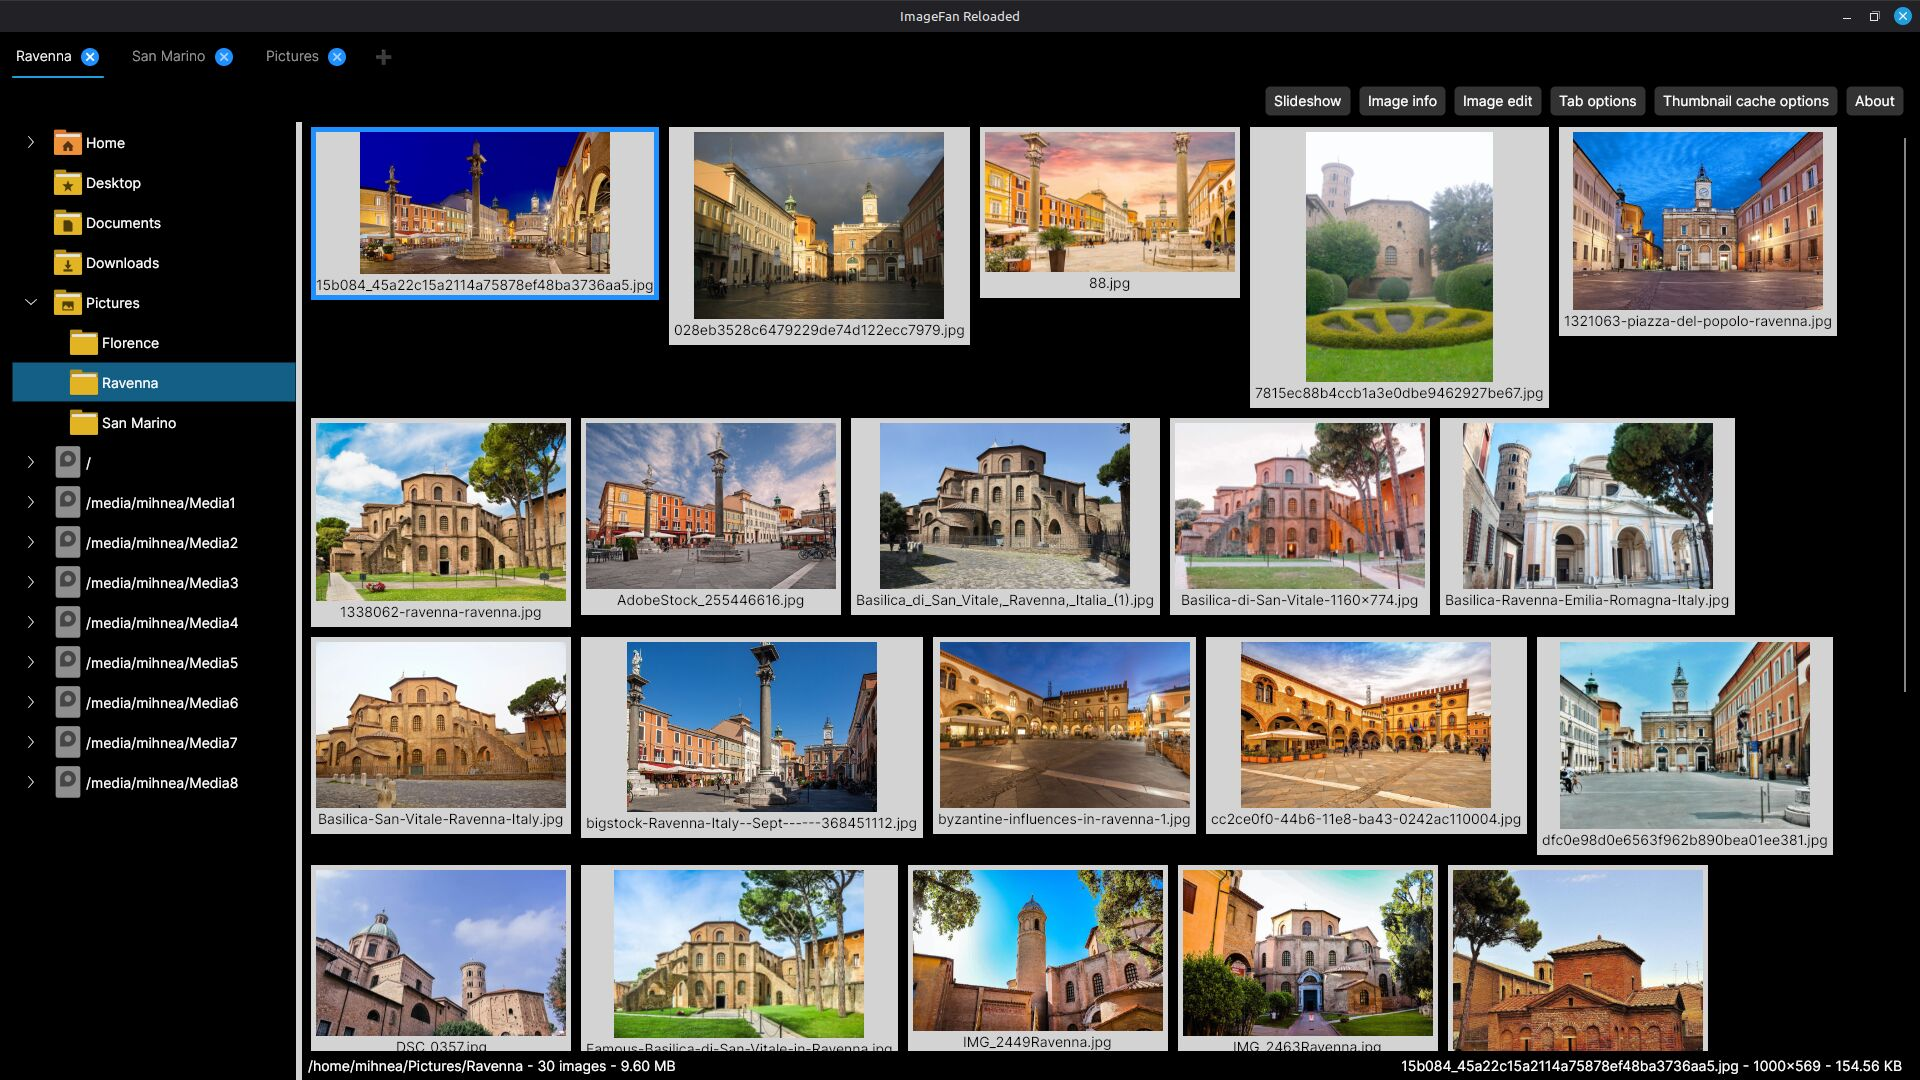
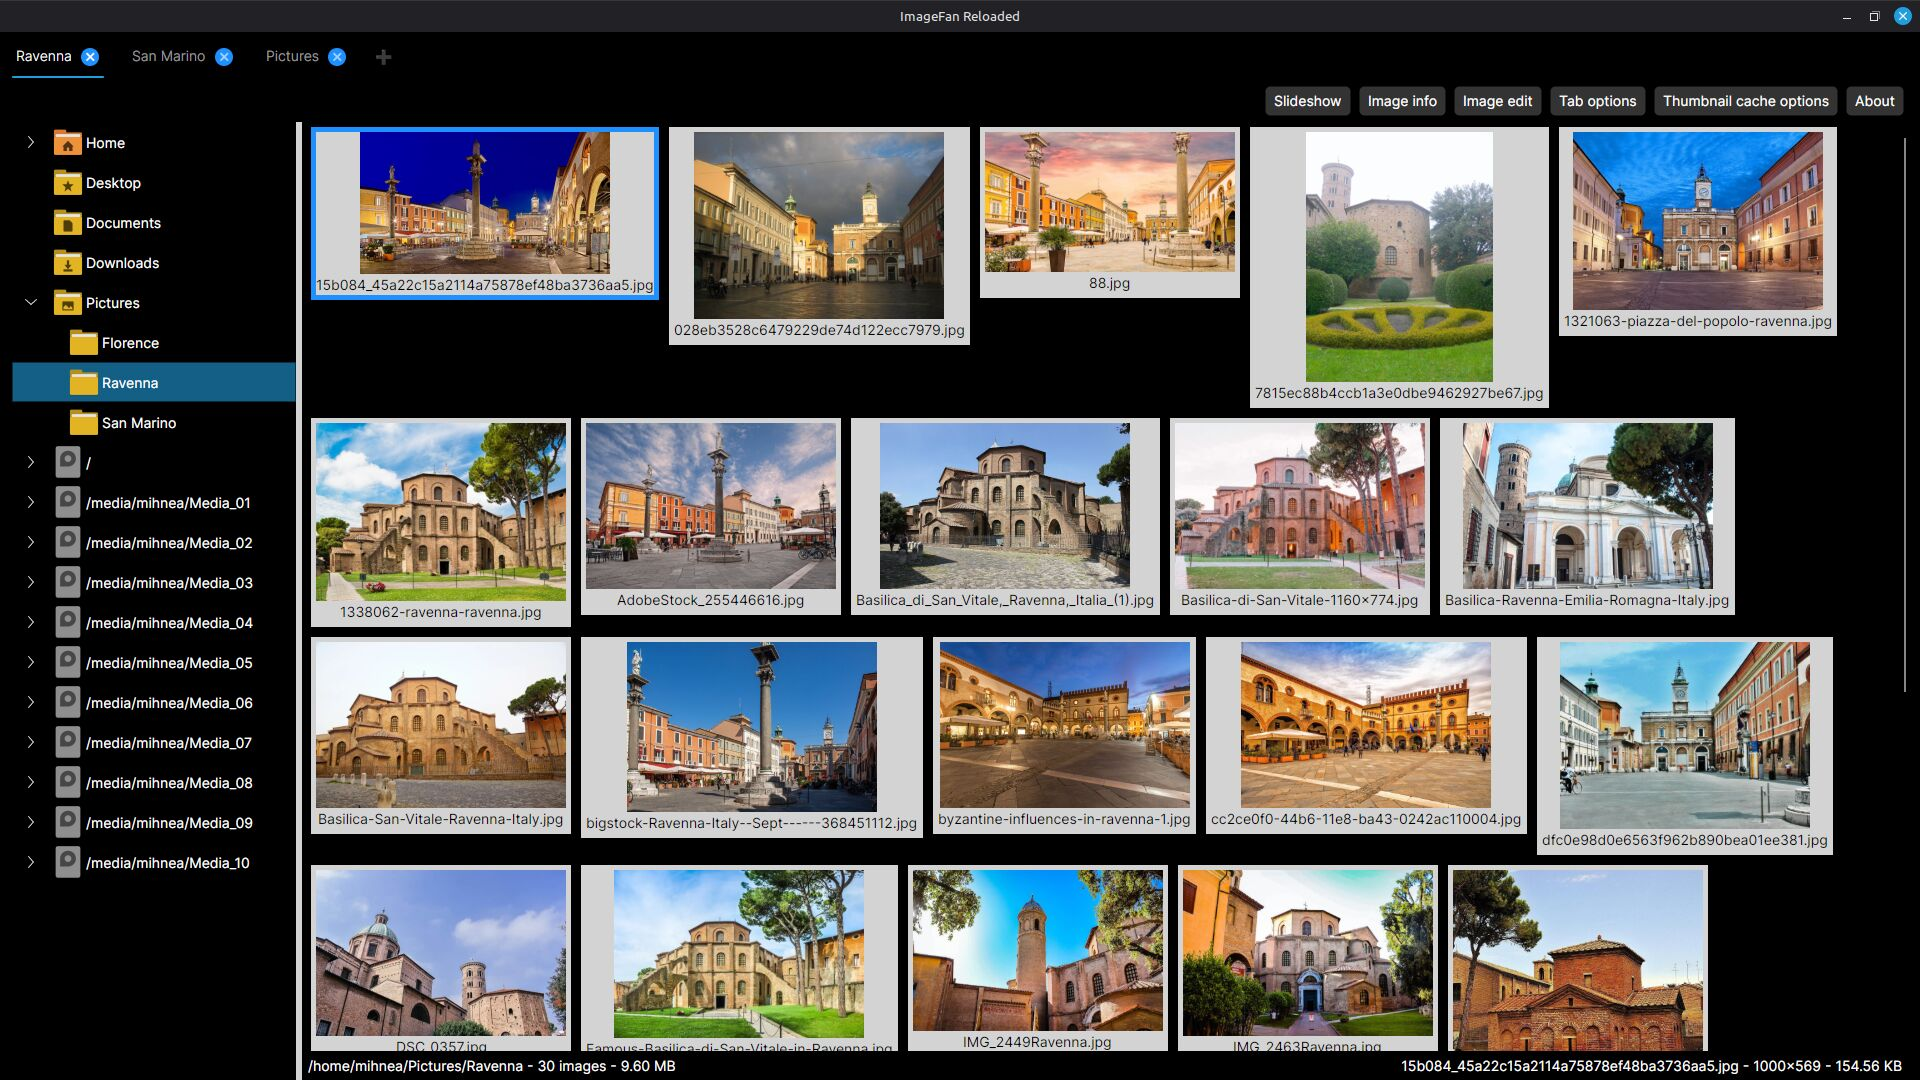
Fixed control focus issue when editing an image

diff --git a/ImageFanReloaded/Controls/TabOptionsWindow.axaml.cs b/ImageFanReloaded/Controls/TabOptionsWindow.axaml.cs
@@ -166,22 +166,6 @@ public partial class TabOptionsWindow : Window, ITabOptionsView
 		_tabOptionChanges.HasChangedThumbnailSize = true;
 	}
 
-	private void OnEnabledImageFileExtensionsListBoxKeyPressing(
-		object? sender, Avalonia.Input.KeyEventArgs e)
-	{
-		var keyModifiers = e.KeyModifiers.ToCoreKeyModifiers();
-		var keyPressing = e.Key.ToCoreKey();
-
-		var selectedItem = _enabledImageFileExtensionsListBox.SelectedItem;
-
-		if (ShouldChangeCheckBoxIsChecked(keyModifiers, keyPressing) &&
-		    selectedItem is not null)
-		{
-			var selectedCheckBox = (CheckBox)selectedItem;
-			selectedCheckBox.IsChecked = !selectedCheckBox.IsChecked;
-		}
-	}
-
 	private void OnEnabledImageFileExtensionsListBoxCheckBoxIsCheckedChanged(
 		object? sender, RoutedEventArgs e)
 	{
@@ -298,19 +282,6 @@ public partial class TabOptionsWindow : Window, ITabOptionsView
 	{
 		if (keyModifiers == GlobalParameters!.NoneKeyModifier &&
 			keyPressing == GlobalParameters!.EscapeKey)
-		{
-			return true;
-		}
-
-		return false;
-	}
-
-	private bool ShouldChangeCheckBoxIsChecked(
-		KeyModifiers keyModifiers, Key keyPressing)
-	{
-		if (keyModifiers == GlobalParameters!.NoneKeyModifier &&
-		    (keyPressing == GlobalParameters!.EnterKey ||
-		     keyPressing == GlobalParameters!.SpaceKey))
 		{
 			return true;
 		}
@@ -464,17 +435,13 @@ public partial class TabOptionsWindow : Window, ITabOptionsView
 			var anImageFileExtensionItem = new CheckBox
 			{
 				Tag = anImageFileExtension,
-				Content = anImageFileExtension
+				Content = anImageFileExtension,
+				IsChecked = TabOptions!.EnabledImageFileExtensions.Contains(
+					anImageFileExtension)
 			};
 
 			_enabledImageFileExtensionsListBox.Items.Add(
 				anImageFileExtensionItem);
-
-			if (TabOptions!.EnabledImageFileExtensions.Contains(
-				    anImageFileExtension))
-			{
-				anImageFileExtensionItem.IsChecked = true;
-			}
 		}
 	}
 
@@ -590,14 +557,16 @@ public partial class TabOptionsWindow : Window, ITabOptionsView
 
 	private void UpdateEnabledImageFileExtensions()
 	{
-		var enabledImageFileExtensions = _enabledImageFileExtensionsListBox
-			.Items
-			.Cast<CheckBox>()
-			.Where(aCheckBox => aCheckBox.IsChecked == true)
-			.Select(aCheckBox => (string)aCheckBox.Tag!)
-			.ToHashSet(GlobalParameters!.ImageFileExtensionsComparer);
+		var checkedEnabledImageFileExtensions =
+			_enabledImageFileExtensionsListBox
+				.Items
+				.Cast<CheckBox>()
+				.Where(aCheckBox => aCheckBox.IsChecked == true)
+				.Select(aCheckBox => (string)aCheckBox.Tag!)
+				.ToHashSet(GlobalParameters!.ImageFileExtensionsComparer);
 
-		TabOptions!.EnabledImageFileExtensions = enabledImageFileExtensions;
+		TabOptions!.EnabledImageFileExtensions =
+			checkedEnabledImageFileExtensions;
 	}
 
 	private void RegisterTabOptionEvents()
@@ -618,11 +587,8 @@ public partial class TabOptionsWindow : Window, ITabOptionsView
 		_thumbnailSizeComboBox.SelectionChanged +=
 			OnThumbnailSizeSelectionChanged;
 
-		_enabledImageFileExtensionsListBox.KeyDown +=
-			OnEnabledImageFileExtensionsListBoxKeyPressing;
-
-		foreach (CheckBox? aCheckBox in
-		         _enabledImageFileExtensionsListBox.Items)
+		foreach (CheckBox aCheckBox in
+		         _enabledImageFileExtensionsListBox.Items!)
 		{
 			aCheckBox!.IsCheckedChanged +=
 				OnEnabledImageFileExtensionsListBoxCheckBoxIsCheckedChanged;
@@ -670,11 +636,8 @@ public partial class TabOptionsWindow : Window, ITabOptionsView
 		_thumbnailSizeComboBox.SelectionChanged -=
 			OnThumbnailSizeSelectionChanged;
 
-		_enabledImageFileExtensionsListBox.KeyDown -=
-			OnEnabledImageFileExtensionsListBoxKeyPressing;
-
-		foreach (CheckBox? aCheckBox in
-		         _enabledImageFileExtensionsListBox.Items)
+		foreach (CheckBox aCheckBox in
+		         _enabledImageFileExtensionsListBox.Items!)
 		{
 			aCheckBox!.IsCheckedChanged -=
 				OnEnabledImageFileExtensionsListBoxCheckBoxIsCheckedChanged;

diff --git a/ImageFanReloaded/Controls/ImageEditWindow.axaml.cs b/ImageFanReloaded/Controls/ImageEditWindow.axaml.cs
@@ -55,6 +55,8 @@ public partial class ImageEditWindow : Window, IImageEditView
 		_snapCropEdgesToolTip.Text =
 			$"If the crop area is within {SnapCropEdgesThresholdInPixels} pixels of an image edge, it will automatically snap to the edge.";
 
+		_lastFocusableControl = _downsizeToDimensionsHeightComboBox;
+
 		_downsizeComboBoxValueToComboBoxItemMapping =
 			new Dictionary<string, ComboBoxItem>();
 
@@ -103,6 +105,8 @@ public partial class ImageEditWindow : Window, IImageEditView
 
 	private static readonly string TransformImageErrorMessage;
 	private static readonly string SaveImageErrorMessage;
+
+	private readonly Control _lastFocusableControl;
 
 	private readonly IDictionary<string, ComboBoxItem>
 		_downsizeComboBoxValueToComboBoxItemMapping;
@@ -957,8 +961,6 @@ public partial class ImageEditWindow : Window, IImageEditView
 		UpdateControls();
 
 		RegisterEvents();
-
-		FocusWindow();
 	}
 
 	private void SetControlsEnabledStatus(bool areControlsEnabled)
@@ -996,6 +998,8 @@ public partial class ImageEditWindow : Window, IImageEditView
 		SetDownsizeButtonEnabledStatus();
 
 		SetImageTitle();
+
+		FocusLastFocusableControl();
 	}
 
 	private void UpdateControlsEnabledStatus()
@@ -1052,8 +1056,6 @@ public partial class ImageEditWindow : Window, IImageEditView
 		_downsizeToDimensionsHeightComboBox.SelectionChanged -=
 			OnDownsizeToDimensionsComboBoxSelectionChanged;
 	}
-
-	private void FocusWindow() => Focus();
 
 	private void PopulateDownsizeComboBox(
 		ComboBox downsizeComboBox,
@@ -1150,6 +1152,8 @@ public partial class ImageEditWindow : Window, IImageEditView
 
 	private void SetImageTitle()
 		=> Title = $"{ImageFileData!.FileName} - {_editableImage!.ImageSize}";
+
+	private void FocusLastFocusableControl() => _lastFocusableControl.Focus();
 
 	private void SetImageLoadErrorTitle()
 		=> Title = $"{ImageFileData!.FileName} - image read error";

diff --git a/ImageFanReloaded/Controls/FullScreenImageWindow.axaml.cs b/ImageFanReloaded/Controls/FullScreenImageWindow.axaml.cs
@@ -82,6 +82,7 @@ public partial class FullScreenImageWindow : Window, IImageView
 		_negligibleImageDragY =
 			imageFile.ImageSize.Height * NegligibleImageDragFactor;
 
+		_imageInfoSelectableTextBlock.ClearSelection();
 		_imageInfoSelectableTextBlock.Text = _imageFile.GetBasicImageInfo(
 			TabOptions!.RecursiveFolderBrowsing);
 		_imageInfoSelectableTextBlock.IsVisible = ShouldShowImageInfo();
@@ -410,7 +411,7 @@ public partial class FullScreenImageWindow : Window, IImageView
 
 		if (isSelectedImageInfoText)
 		{
-			Focus();
+			_imageInfoSelectableTextBlock.ClearSelection();
 		}
 		else
 		{

diff --git a/ImageFanReloaded/Controls/WindowedImageWindow.axaml.cs b/ImageFanReloaded/Controls/WindowedImageWindow.axaml.cs
@@ -87,6 +87,7 @@ public partial class WindowedImageWindow : Window, IImageView
 		_displayImage.MaxWidth = _imageFile.ImageSize.Width;
 		_displayImage.MaxHeight = _imageFile.ImageSize.Height;
 
+		_imageInfoSelectableTextBlock.ClearSelection();
 		_imageInfoSelectableTextBlock.Text = _imageFile.GetBasicImageInfo(
 			TabOptions!.RecursiveFolderBrowsing);
 		_imageInfoSelectableTextBlock.IsVisible = ShouldShowImageInfo();
@@ -323,7 +324,7 @@ public partial class WindowedImageWindow : Window, IImageView
 
 		if (isSelectedImageInfoText)
 		{
-			Focus();
+			_imageInfoSelectableTextBlock.ClearSelection();
 		}
 		else
 		{